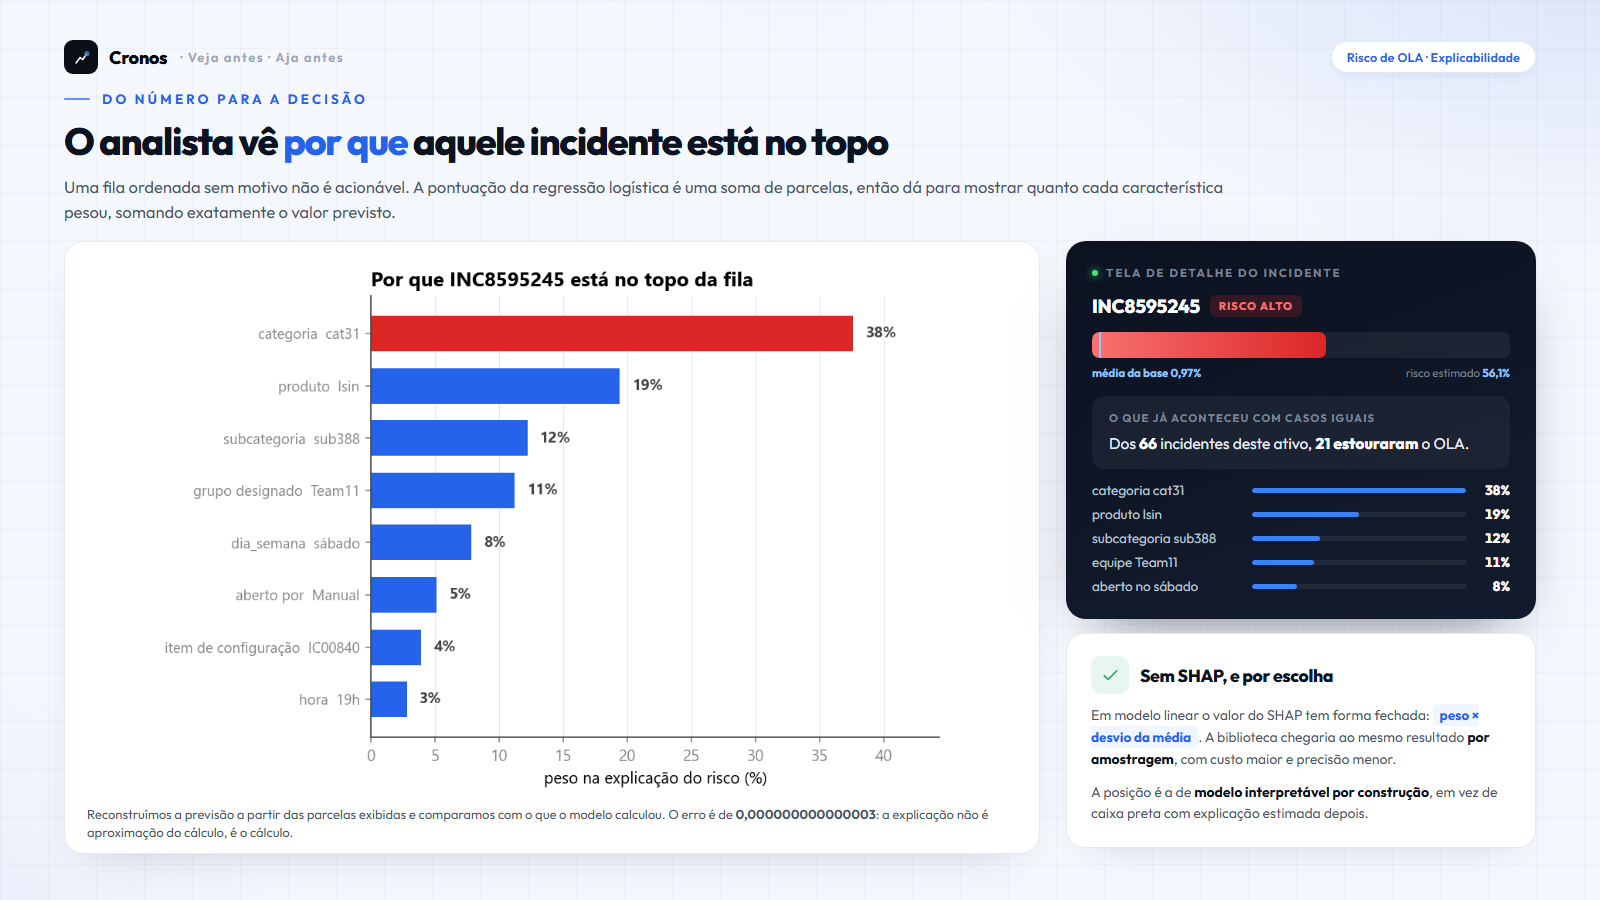
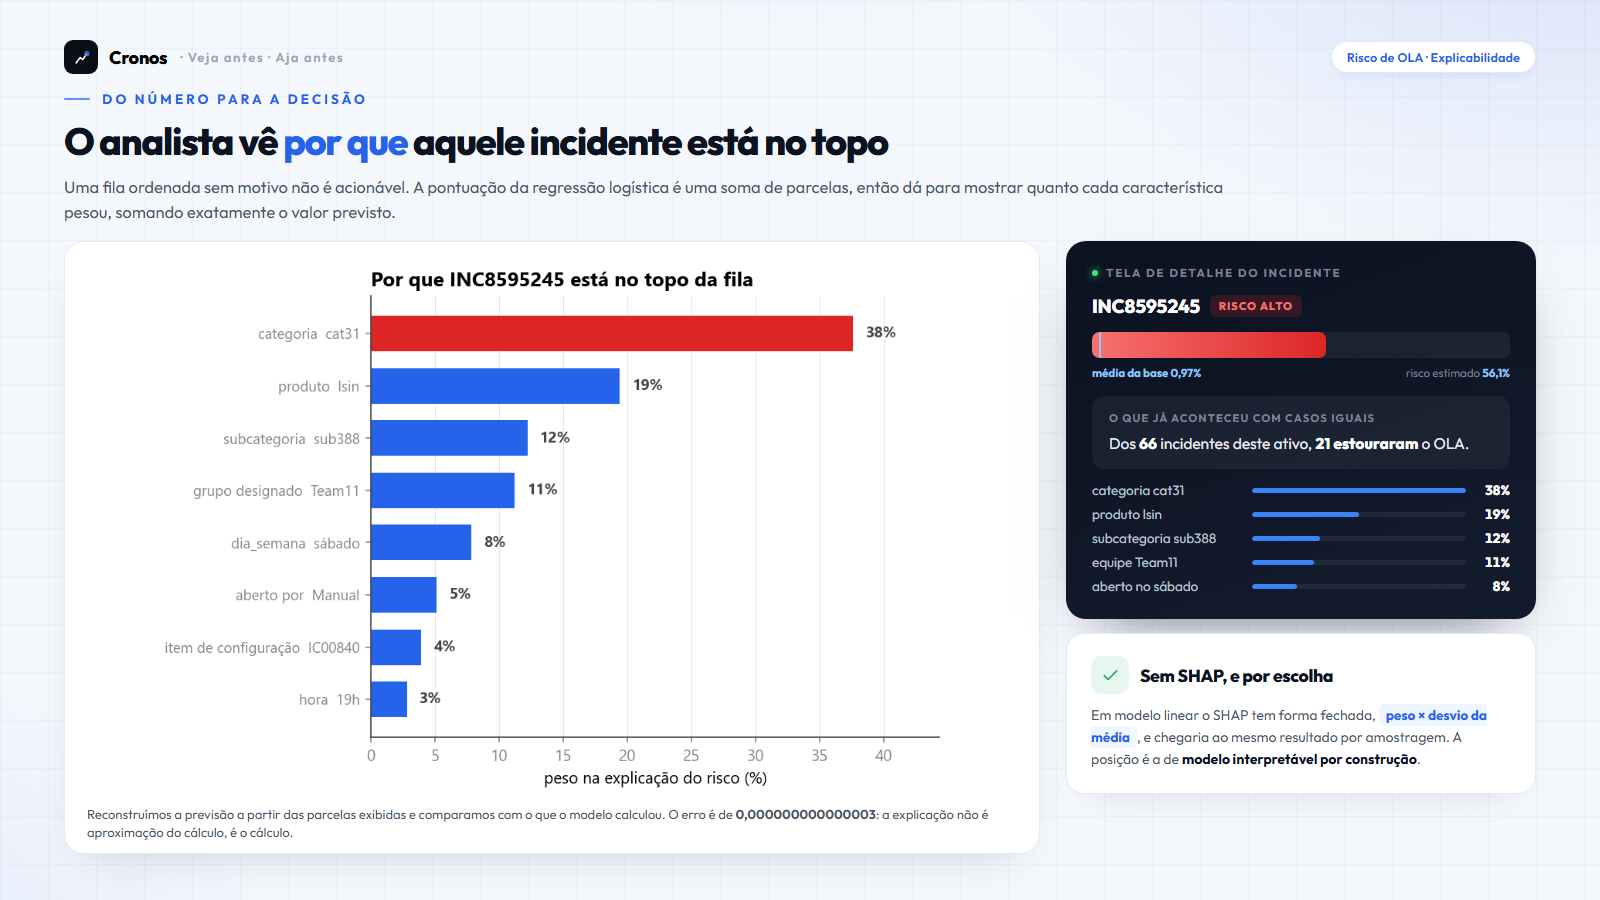
style: enxuga os cinco slides mais carregados da seção de risco e padrões
Seis reduções, sem retirar a mensagem central de nenhum slide.

No slide das características usadas, a lista cai de sete para cinco itens e perde a anotação
lateral de cada linha. A contrapartida é que os números de escala saem do slide: 45 produtos,
4.665 ativos e 119 categorias deixam de aparecer. Eles continuam no notebook 04, seção 4.2, e a
decisão pode ser revertida se a escala for considerada parte da mensagem.

Nos demais, a redução é de texto redundante: o card sobre a dispensa do SHAP passa de dois
parágrafos para um, os dois blocos de leitura descartada perdem a repetição da explicação já dada
nos números acima deles, o card dos alarmes falsos do P3 funde dois parágrafos em um, e os três
quadrantes secundários do slide de saúde ficam com uma linha cada, mantendo o de risco latente
com o texto completo.

Verificação após a mudança: 59 arquivos de slide, nenhum número fora do universo produzido pelos
notebooks.

Changed region(s): [[0.6875, 0.7778, 0.9375, 0.9333]]

diff --git a/prototipos/slides/mvp/deck/d38a.html b/prototipos/slides/mvp/deck/d38a.html
@@ -74,6 +74,6 @@ b,strong{font-weight:700}
       <div class="row">
         <div class="figc"><div class="fb"><img class="mplfig" src="figs/saude_quadrantes.png" alt=""></div>
           <div class="ff">As linhas tracejadas são as medianas do conjunto. <b>Se os dois eixos fossem correlacionados</b>, os produtos ficariam na diagonal e existiria só uma dimensão de variação, não quatro situações.</div></div>
-        <div class="side"><div class="q4 foco"><div class="qh2"><span class="dt3" style="background:#D9930B"></span><h4>Risco latente</h4></div><div class="cond">muito problema novo · pouca violação</div><p>Acumula justamente a característica que causa violação, e ainda não pagou a conta. O problema inédito viola o OLA <b>4,6 vezes mais</b> que o de rotina.</p><div class="ex">exemplo: <b>lcsi</b> · 56,0% dos problemas são novos, e só <b>0,09%</b> violou</div></div><div class="q4 "><div class="qh2"><span class="dt3" style="background:#DC2626"></span><h4>Problema já materializado</h4></div><div class="cond">muito problema novo · muita violação</div><p>Recebe casos novos e já está violando. É onde a fila de risco do modelo anterior atua.</p></div><div class="q4 "><div class="qh2"><span class="dt3" style="background:#2563EB"></span><h4>Problema conhecido e recorrente</h4></div><div class="cond">pouco problema novo · muita violação</div><p>Viola, mas sempre pelo mesmo motivo. Aqui <b>padronizar a resposta resolve</b>, o que não vale para o risco latente.</p></div><div class="q4 "><div class="qh2"><span class="dt3" style="background:#15A05B"></span><h4>Estável</h4></div><div class="cond">pouco problema novo · pouca violação</div><p>Sem sinal de deterioração no período.</p></div></div>
+        <div class="side"><div class="q4 foco"><div class="qh2"><span class="dt3" style="background:#D9930B"></span><h4>Risco latente</h4></div><div class="cond">muito problema novo · pouca violação</div><p>Acumula justamente a característica que causa violação, e ainda não pagou a conta. O problema inédito viola o OLA <b>4,6 vezes mais</b> que o de rotina.</p><div class="ex">exemplo: <b>lcsi</b> · 56,0% dos problemas são novos, e só <b>0,09%</b> violou</div></div><div class="q4 "><div class="qh2"><span class="dt3" style="background:#DC2626"></span><h4>Problema já materializado</h4></div><div class="cond">novo · e já violando</div><p>É onde a fila de risco atua hoje.</p></div><div class="q4 "><div class="qh2"><span class="dt3" style="background:#2563EB"></span><h4>Problema conhecido e recorrente</h4></div><div class="cond">não é novo · mas viola</div><p>Viola sempre pelo mesmo motivo, então <b>padronizar a resposta resolve</b>.</p></div><div class="q4 "><div class="qh2"><span class="dt3" style="background:#15A05B"></span><h4>Estável</h4></div><div class="cond">não é novo · não viola</div><p>Sem sinal de deterioração.</p></div></div>
       </div>
     </div></div></body></html>

diff --git a/prototipos/slides/mvp/deck/d23a.html b/prototipos/slides/mvp/deck/d23a.html
@@ -79,7 +79,7 @@ b,strong{font-weight:700}
       <div class="row">
         <div class="col usa"><div class="ch"><span class="ci"><span class="ic"><svg viewBox="0 0 24 24"><path d="M8 6h13M8 12h13M8 18h13M3.5 6h.01M3.5 12h.01M3.5 18h.01"/></svg></span></span>
           <h3>10 características usadas<small>o que a operação já sabe na abertura</small></h3></div>
-          <div class="items"><div class="it"><span class="ic"><svg viewBox="0 0 24 24"><path d="M4 12l5 5L20 6"/></svg></span><span class="k">Prioridade</span><span class="w">P2 ou P3</span></div><div class="it"><span class="ic"><svg viewBox="0 0 24 24"><path d="M4 12l5 5L20 6"/></svg></span><span class="k">Grupo designado</span><span class="w">16 equipes</span></div><div class="it"><span class="ic"><svg viewBox="0 0 24 24"><path d="M4 12l5 5L20 6"/></svg></span><span class="k">Produto</span><span class="w">45 produtos</span></div><div class="it"><span class="ic"><svg viewBox="0 0 24 24"><path d="M4 12l5 5L20 6"/></svg></span><span class="k">Categoria e subcategoria</span><span class="w">119 e 383</span></div><div class="it"><span class="ic"><svg viewBox="0 0 24 24"><path d="M4 12l5 5L20 6"/></svg></span><span class="k">Item de configuração</span><span class="w">4.665 ativos</span></div><div class="it"><span class="ic"><svg viewBox="0 0 24 24"><path d="M4 12l5 5L20 6"/></svg></span><span class="k">Origem da abertura</span><span class="w">manual ou monitoramento</span></div><div class="it"><span class="ic"><svg viewBox="0 0 24 24"><path d="M4 12l5 5L20 6"/></svg></span><span class="k">Hora, dia da semana, feriado</span><span class="w">do instante da abertura</span></div></div>
+          <div class="items"><div class="it"><span class="ic"><svg viewBox="0 0 24 24"><path d="M4 12l5 5L20 6"/></svg></span><span class="k">Prioridade, produto e origem</span></div><div class="it"><span class="ic"><svg viewBox="0 0 24 24"><path d="M4 12l5 5L20 6"/></svg></span><span class="k">Grupo designado</span></div><div class="it"><span class="ic"><svg viewBox="0 0 24 24"><path d="M4 12l5 5L20 6"/></svg></span><span class="k">Categoria e subcategoria</span></div><div class="it"><span class="ic"><svg viewBox="0 0 24 24"><path d="M4 12l5 5L20 6"/></svg></span><span class="k">Item de configuração</span></div><div class="it"><span class="ic"><svg viewBox="0 0 24 24"><path d="M4 12l5 5L20 6"/></svg></span><span class="k">Hora, dia da semana e feriado</span></div></div>
           <div class="foot">Regressão logística treinada em <b>20.417</b> incidentes até 30/09/2025, testada nos <b>5.183</b> seguintes.</div></div>
         <div class="col nao"><div class="ch"><span class="ci"><span class="ic"><svg viewBox="0 0 24 24"><rect x="5" y="11" width="14" height="9" rx="2.2"/><path d="M8 11V8a4 4 0 0 1 8 0v3"/></svg></span></span>
           <h3>4 campos excluídos<small>informação que ainda não existe</small></h3></div>

diff --git a/prototipos/slides/mvp/deck/d33a.html b/prototipos/slides/mvp/deck/d33a.html
@@ -81,12 +81,12 @@ b,strong{font-weight:700}
             <h4>"A prioridade alta protege contra o estouro"</h4>
             <div class="lin ag"><span class="tg">no agregado</span><span class="vv">0,81%</span><span class="st">P2, contra 1,01% do P3</span></div>
             <div class="lin ct"><span class="tg">em caso inédito</span><span class="vv">2,27%</span><span class="st">P2, contra 1,54% do P3</span></div>
-            <div class="pq">O P2 parecia melhor porque está <b>concentrado nos problemas que repetem</b>: 7,9% dos inéditos são P2, contra 30,8% dos de rotina. Era composição, não priorização.</div></div>
+            <div class="pq">Era composição: <b>7,9%</b> dos casos inéditos são P2, contra <b>30,8%</b> dos de rotina.</div></div>
           <div class="caso"><div class="cl">Leitura descartada · 2</div>
             <h4>"Incidente aberto por pessoa estoura mais"</h4>
             <div class="lin ag"><span class="tg">no agregado</span><span class="vv">+19 pp</span><span class="st">entre as quebras</span></div>
             <div class="lin ct"><span class="tg">em caso inédito</span><span class="vv">1,58%</span><span class="st">manual, contra 2,09% do monitoramento</span></div>
-            <div class="pq">Mesma armadilha: <b>96,5%</b> dos casos inéditos são abertos manualmente. Controlando pela familiaridade, o manual estoura menos.</div></div>
+            <div class="pq">Mesma armadilha: <b>96,5%</b> dos casos inéditos são manuais.</div></div>
           <div class="metodo"><div class="ml">Por que isso está no deck</div>
             <p>As duas relações eram verdadeiras no agregado e falsas como explicação. Qualquer avaliador que cruzasse as variáveis chegaria nisso. <b>Preferimos publicar o teste do que a conclusão bonita.</b></p></div>
         </div>

diff --git a/prototipos/slides/mvp/deck/d36a.html b/prototipos/slides/mvp/deck/d36a.html
@@ -88,8 +88,7 @@ b,strong{font-weight:700}
           <div class="honesto"><div class="hl3">O que não funcionou</div>
             <h4>No P3, a projeção deu alarme falso três vezes</h4>
             <div class="seq"><div class="sq err"><span class="dt">01/08</span><span class="vl2">216,7</span><span class="tag2">disse que estouraria</span></div><div class="sq err"><span class="dt">01/09</span><span class="vl2">225,3</span><span class="tag2">disse que estouraria</span></div><div class="sq err"><span class="dt">01/10</span><span class="vl2">208,0</span><span class="tag2">disse que estouraria</span></div><div class="sq ok"><span class="dt">01/11</span><span class="vl2">193,9</span><span class="tag2">acertou</span></div><div class="sq ok"><span class="dt">01/12</span><span class="vl2">183,0</span><span class="tag2">acertou</span></div></div>
-            <p>Os três erros são <b>a mesma superestimação encolhendo</b>, não erros independentes. A causa está medida: novembro e dezembro tiveram queda real de volume no P3, e nenhuma informação anterior a outubro trazia sinal dela.</p>
-            <p>Em <b>nenhuma</b> das dez projeções ocorreu o erro oposto, de indicar cumprimento de meta que depois não se confirmaria.</p></div>
+            <p>São <b>a mesma superestimação encolhendo</b>: novembro e dezembro tiveram queda real de volume, sem sinal antes de outubro. E em <b>nenhuma</b> das dez projeções houve o erro oposto, de prometer meta cumprida que não se confirmaria.</p></div>
         </div>
       </div>
     </div></div></body></html>

diff --git a/prototipos/slides/mvp/deck/d36b.html b/prototipos/slides/mvp/deck/d36b.html
@@ -88,8 +88,7 @@ b,strong{font-weight:700}
           <div class="honesto"><div class="hl3">O que não funcionou</div>
             <h4>No P3, a projeção deu alarme falso três vezes</h4>
             <div class="seq"><div class="sq err"><span class="dt">01/08</span><span class="vl2">216,7</span><span class="tag2">disse que estouraria</span></div><div class="sq err"><span class="dt">01/09</span><span class="vl2">225,3</span><span class="tag2">disse que estouraria</span></div><div class="sq err"><span class="dt">01/10</span><span class="vl2">208,0</span><span class="tag2">disse que estouraria</span></div><div class="sq ok"><span class="dt">01/11</span><span class="vl2">193,9</span><span class="tag2">acertou</span></div><div class="sq ok"><span class="dt">01/12</span><span class="vl2">183,0</span><span class="tag2">acertou</span></div></div>
-            <p>Os três erros são <b>a mesma superestimação encolhendo</b>, não erros independentes. A causa está medida: novembro e dezembro tiveram queda real de volume no P3, e nenhuma informação anterior a outubro trazia sinal dela.</p>
-            <p>Em <b>nenhuma</b> das dez projeções ocorreu o erro oposto, de indicar cumprimento de meta que depois não se confirmaria.</p></div>
+            <p>São <b>a mesma superestimação encolhendo</b>: novembro e dezembro tiveram queda real de volume, sem sinal antes de outubro. E em <b>nenhuma</b> das dez projeções houve o erro oposto, de prometer meta cumprida que não se confirmaria.</p></div>
         </div>
       </div>
     </div></div></body></html>

diff --git a/prototipos/slides/mvp/deck/d27a.html b/prototipos/slides/mvp/deck/d27a.html
@@ -98,8 +98,7 @@ b,strong{font-weight:700}
           </div>
           <div class="noshap"><div class="nh"><span class="ci"><span class="ic"><svg viewBox="0 0 24 24"><path d="M4 12l5 5L20 6"/></svg></span></span>
             <h4>Sem SHAP, e por escolha</h4></div>
-            <p>Em modelo linear o valor do SHAP tem forma fechada: <code>peso × desvio da média</code>. A biblioteca chegaria ao mesmo resultado <b>por amostragem</b>, com custo maior e precisão menor.</p>
-            <p>A posição é a de <b>modelo interpretável por construção</b>, em vez de caixa preta com explicação estimada depois.</p></div>
+            <p>Em modelo linear o SHAP tem forma fechada, <code>peso × desvio da média</code>, e chegaria ao mesmo resultado por amostragem. A posição é a de <b>modelo interpretável por construção</b>.</p></div>
         </div>
       </div>
     </div></div></body></html>

diff --git a/prototipos/slides/mvp/deck/d27b.html b/prototipos/slides/mvp/deck/d27b.html
@@ -98,8 +98,7 @@ b,strong{font-weight:700}
           </div>
           <div class="noshap"><div class="nh"><span class="ci"><span class="ic"><svg viewBox="0 0 24 24"><path d="M4 12l5 5L20 6"/></svg></span></span>
             <h4>Sem SHAP, e por escolha</h4></div>
-            <p>Em modelo linear o valor do SHAP tem forma fechada: <code>peso × desvio da média</code>. A biblioteca chegaria ao mesmo resultado <b>por amostragem</b>, com custo maior e precisão menor.</p>
-            <p>A posição é a de <b>modelo interpretável por construção</b>, em vez de caixa preta com explicação estimada depois.</p></div>
+            <p>Em modelo linear o SHAP tem forma fechada, <code>peso × desvio da média</code>, e chegaria ao mesmo resultado por amostragem. A posição é a de <b>modelo interpretável por construção</b>.</p></div>
         </div>
       </div>
     </div></div></body></html>
